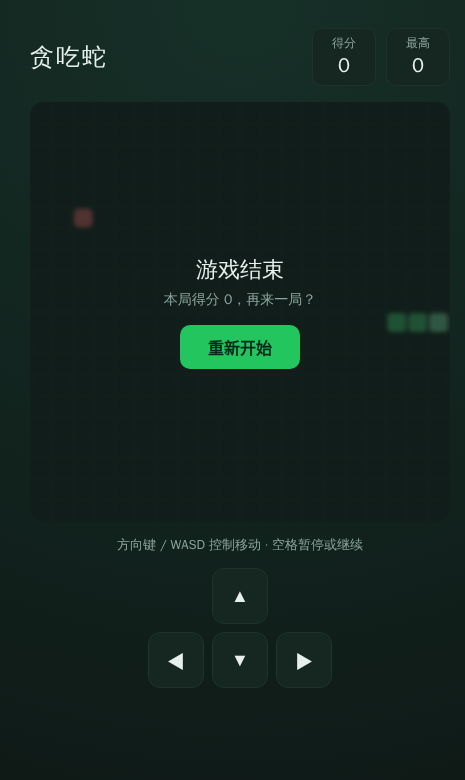
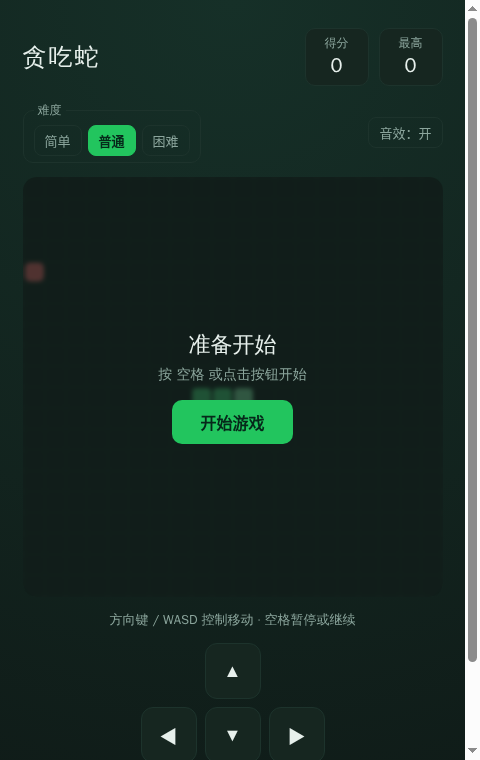
feat(v1.2.0): 难度选择+程序化音效，单元17/e2e9/结构25

diff --git a/js/snake.js b/js/snake.js
@@ -1,7 +1,8 @@
-// UI 层：负责 DOM、渲染、定时器与本地最高分；游戏逻辑见 engine.js
+// UI 层：负责 DOM、渲染、定时器与本地最高分；游戏逻辑见 engine.js，音效见 sound.js
 import {
-  createInitialState, setDirection, step, currentSpeed,
+  createInitialState, setDirection, step, currentSpeed, DIFFICULTIES,
 } from "./engine.js";
+import { createSoundEngine } from "./sound.js";
 
 const canvas = document.getElementById("board");
 const ctx = canvas.getContext("2d");
@@ -14,28 +15,44 @@ const overlay = document.getElementById("overlay");
 const overlayTitle = document.getElementById("overlay-title");
 const overlayText = document.getElementById("overlay-text");
 const startBtn = document.getElementById("start-btn");
+const muteBtn = document.getElementById("mute-btn");
 
-let state, timer, running, paused;
+let state, timer, running, paused, difficulty = "normal";
+let audioCtx, sound;
 let best = Number(localStorage.getItem("snake_best") || 0);
 bestEl.textContent = best;
 
+// 浏览器要求用户手势后才能创建/恢复 AudioContext
+function ensureSound() {
+  if (!sound) {
+    audioCtx = new (window.AudioContext || window.webkitAudioContext)();
+    sound = createSoundEngine(audioCtx);
+  }
+}
+
 function reset() {
-  state = createInitialState(CELLS);
+  state = createInitialState(CELLS, difficulty);
   scoreEl.textContent = 0;
   draw();
 }
 
 function tick() {
   const event = step(state);
-  if (event === "over") return gameOver();
+  if (event === "over") {
+    if (sound) sound.play("over");
+    return gameOver();
+  }
 
   scoreEl.textContent = state.score;
-  if (state.score > best) {
-    best = state.score;
-    bestEl.textContent = best;
-    localStorage.setItem("snake_best", String(best));
+  if (event === "ate") {
+    if (sound) sound.play("eat");
+    if (state.score > best) {
+      best = state.score;
+      bestEl.textContent = best;
+      localStorage.setItem("snake_best", String(best));
+    }
+    restartTimer(); // 速度可能变化
   }
-  if (event === "ate") restartTimer(); // 速度可能变化
   draw();
 }
 
@@ -72,10 +89,11 @@ function getCss(name) {
 
 function restartTimer() {
   clearInterval(timer);
-  timer = setInterval(tick, currentSpeed(state.score));
+  timer = setInterval(tick, currentSpeed(state.score, state.speedConfig));
 }
 
 function start() {
+  ensureSound();
   reset();
   running = true;
   paused = false;
@@ -121,6 +139,28 @@ document.addEventListener("keydown", (e) => {
 
 document.querySelectorAll(".d").forEach((btn) => {
   btn.addEventListener("click", () => setDirection(state, btn.dataset.dir));
+});
+
+// 难度选择
+document.querySelectorAll(".difficulty button").forEach((btn) => {
+  btn.addEventListener("click", () => {
+    difficulty = btn.dataset.difficulty;
+    document.querySelectorAll(".difficulty button").forEach((b) => {
+      const on = b === btn;
+      b.classList.toggle("active", on);
+      b.setAttribute("aria-pressed", String(on));
+    });
+    if (!running) reset();
+  });
+});
+
+// 静音开关
+muteBtn.addEventListener("click", () => {
+  ensureSound();
+  const muted = !sound.isMuted();
+  sound.setMuted(muted);
+  muteBtn.textContent = muted ? "音效：关" : "音效：开";
+  muteBtn.setAttribute("aria-pressed", String(muted));
 });
 
 startBtn.addEventListener("click", () => {

diff --git a/tests/sound.test.js b/tests/sound.test.js
@@ -1,0 +1,60 @@
+import { test } from "node:test";
+import assert from "node:assert";
+import { createSoundEngine, SOUNDS } from "../js/sound.js";
+
+// 最小可用的 Web Audio mock
+function mockCtx() {
+  const nodes = [];
+  const makeNode = () => ({
+    connect: () => makeNode(),
+    start: () => {}, stop: () => {},
+    frequency: { setValueAtTime: () => {}, exponentialRampToValueAtTime: () => {} },
+    gain: { setValueAtTime: () => {}, exponentialRampToValueAtTime: () => {} },
+  });
+  return {
+    state: "running",
+    currentTime: 0,
+    destination: {},
+    resume: async () => {},
+    createOscillator: () => { const n = makeNode(); nodes.push(n); return n; },
+    createGain: () => makeNode(),
+    _nodes: nodes,
+  };
+}
+
+test("非静音播放已知音效返回 true 并创建振荡器", () => {
+  const ctx = mockCtx();
+  const engine = createSoundEngine(ctx);
+  assert.equal(engine.play("eat"), true);
+  assert.equal(ctx._nodes.length, 1);
+});
+
+test("静音时播放返回 false", () => {
+  const ctx = mockCtx();
+  const engine = createSoundEngine(ctx);
+  engine.setMuted(true);
+  assert.equal(engine.isMuted(), true);
+  assert.equal(engine.play("eat"), false);
+  assert.equal(ctx._nodes.length, 0);
+});
+
+test("未知音效返回 false", () => {
+  const engine = createSoundEngine(mockCtx());
+  assert.equal(engine.play("nope"), false);
+});
+
+test("无 AudioContext 时安全返回 false", () => {
+  const engine = createSoundEngine(null);
+  assert.equal(engine.play("eat"), false);
+});
+
+test("suspended 状态会触发 resume", async () => {
+  const ctx = mockCtx();
+  let resumed = false;
+  ctx.state = "suspended";
+  ctx.resume = async () => { resumed = true; };
+  const engine = createSoundEngine(ctx);
+  engine.play("over");
+  assert.equal(resumed, true);
+  assert.ok(SOUNDS.over);
+});

diff --git a/tests/engine.test.js b/tests/engine.test.js
@@ -2,7 +2,7 @@ import { test } from "node:test";
 import assert from "node:assert";
 import {
   DIRS, createInitialState, placeFood, setDirection, step,
-  hitsWall, hitsSelf, currentSpeed,
+  hitsWall, hitsSelf, currentSpeed, DIFFICULTIES,
 } from "../js/engine.js";
 
 test("初始状态：3节蛇、向右、分数0、有食物、status ready", () => {
@@ -82,4 +82,24 @@ test("currentSpeed 随分数提升，且不低于下限", () => {
   assert.equal(currentSpeed(0), 140);
   assert.equal(currentSpeed(5), 128);
   assert.equal(currentSpeed(100), 60); // 触底
+});
+
+test("难度配置：createInitialState 携带对应速度参数", () => {
+  const easy = createInitialState(20, "easy");
+  const hard = createInitialState(20, "hard");
+  assert.equal(easy.speedConfig, DIFFICULTIES.easy);
+  assert.equal(hard.difficulty, "hard");
+  assert.ok(DIFFICULTIES.hard.base < DIFFICULTIES.easy.base);
+});
+
+test("不同难度初始速度不同", () => {
+  const easy = createInitialState(20, "easy");
+  const hard = createInitialState(20, "hard");
+  assert.ok(currentSpeed(0, easy.speedConfig) > currentSpeed(0, hard.speedConfig));
+});
+
+test("非法难度回退到 normal", () => {
+  const s = createInitialState(20, "nope");
+  assert.equal(s.difficulty, "normal");
+  assert.equal(s.speedConfig, DIFFICULTIES.normal);
 });

diff --git a/js/sound.js b/js/sound.js
@@ -1,0 +1,34 @@
+// 程序化音效：Web Audio 合成，无外部音频文件。AudioContext 可注入以便测试。
+export const SOUNDS = {
+  eat: { freq: 660, endFreq: 880, duration: 0.09, type: "square" },
+  over: { freq: 320, endFreq: 90, duration: 0.35, type: "sawtooth" },
+};
+
+export function createSoundEngine(ctx) {
+  let muted = false;
+
+  function play(name) {
+    const spec = SOUNDS[name];
+    if (!ctx || muted || !spec) return false;
+    if (ctx.state === "suspended") ctx.resume();
+
+    const t = ctx.currentTime;
+    const osc = ctx.createOscillator();
+    const gain = ctx.createGain();
+    osc.type = spec.type;
+    osc.frequency.setValueAtTime(spec.freq, t);
+    osc.frequency.exponentialRampToValueAtTime(spec.endFreq, t + spec.duration);
+    gain.gain.setValueAtTime(0.12, t);
+    gain.gain.exponentialRampToValueAtTime(0.001, t + spec.duration);
+    osc.connect(gain).connect(ctx.destination);
+    osc.start(t);
+    osc.stop(t + spec.duration);
+    return true;
+  }
+
+  return {
+    play,
+    setMuted(v) { muted = v; },
+    isMuted() { return muted; },
+  };
+}

diff --git a/css/style.css b/css/style.css
@@ -84,6 +84,40 @@ body {
 
 .hint { text-align: center; color: var(--muted); font-size: 13px; margin: 14px 0; }
 
+.controls {
+  display: flex;
+  align-items: center;
+  justify-content: space-between;
+  gap: 10px;
+  margin-bottom: 14px;
+}
+.difficulty {
+  border: 1px solid var(--grid);
+  border-radius: 10px;
+  padding: 6px 10px;
+  margin: 0;
+  display: flex;
+  align-items: center;
+  gap: 6px;
+}
+.difficulty legend { font-size: 12px; color: var(--muted); padding: 0 4px; }
+.difficulty button, #mute-btn {
+  background: transparent;
+  border: 1px solid var(--grid);
+  border-radius: 8px;
+  color: var(--muted);
+  padding: 5px 10px;
+  font-size: 13px;
+  cursor: pointer;
+}
+.difficulty button.active {
+  background: var(--accent);
+  border-color: var(--accent);
+  color: #06281a;
+  font-weight: 700;
+}
+#mute-btn { white-space: nowrap; }
+
 .dpad {
   display: grid;
   grid-template-columns: repeat(3, 56px);

diff --git a/js/engine.js b/js/engine.js
@@ -8,9 +8,20 @@ export const DIRS = {
 
 export const SPEED_CONFIG = { base: 140, min: 60, stepEvery: 5, stepMs: 12 };
 
-export function createInitialState(cells = 20) {
+// 难度配置：不同初始速度、下限与加速曲线
+export const DIFFICULTIES = {
+  easy: { label: "简单", base: 170, min: 90, stepEvery: 6, stepMs: 10 },
+  normal: { label: "普通", base: 140, min: 60, stepEvery: 5, stepMs: 12 },
+  hard: { label: "困难", base: 110, min: 45, stepEvery: 4, stepMs: 14 },
+};
+
+export function createInitialState(cells = 20, difficulty = "normal") {
+  const validDifficulty = DIFFICULTIES[difficulty] ? difficulty : "normal";
+  const cfg = DIFFICULTIES[validDifficulty];
   const state = {
     cells,
+    difficulty: validDifficulty,
+    speedConfig: cfg,
     snake: [{ x: 10, y: 10 }, { x: 9, y: 10 }, { x: 8, y: 10 }],
     dir: DIRS.right,
     nextDir: DIRS.right,

diff --git a/index.html b/index.html
@@ -16,6 +16,16 @@
       </div>
     </header>
 
+    <div class="controls">
+      <fieldset class="difficulty">
+        <legend>难度</legend>
+        <button type="button" data-difficulty="easy" aria-pressed="false">简单</button>
+        <button type="button" data-difficulty="normal" class="active" aria-pressed="true">普通</button>
+        <button type="button" data-difficulty="hard" aria-pressed="false">困难</button>
+      </fieldset>
+      <button id="mute-btn" type="button" aria-pressed="false">音效：开</button>
+    </div>
+
     <div class="board-wrap">
       <canvas id="board" width="400" height="400" aria-label="贪吃蛇游戏区域"></canvas>
       <div id="overlay" class="overlay">

diff --git a/README.md b/README.md
@@ -3,7 +3,7 @@
 [![CI](https://github.com/yyds8170-ctrl/craft-snake-rebuild/actions/workflows/ci.yml/badge.svg)](https://github.com/yyds8170-ctrl/craft-snake-rebuild/actions/workflows/ci.yml)
 [![license](https://img.shields.io/badge/license-PolyForm%20Noncommercial%201.0.0-blue.svg)](LICENSE)
 [![type](https://img.shields.io/badge/type-interactive%20demo-green.svg)](#特性)
-[![test](https://img.shields.io/badge/unit%209--e2e%206%20passing-brightgreen.svg)](#测试)
+[![test](https://img.shields.io/badge/unit%2017--e2e%209%20passing-brightgreen.svg)](#测试)
 
 一个从零独立实现、可直接在浏览器运行的贪吃蛇，用于验证 **Craft Anything 取证 + 豆包手工编码**闭环对带交互逻辑目标的处理能力。
 
@@ -13,22 +13,24 @@
 
 ## 特性
 
+- 三档难度（简单 / 普通 / 困难），不同速度曲线
 - 方向键 / WASD 控制，禁止 180° 直接反向
 - 空格暂停 / 继续，开始与结束遮罩
 - 吃食物计分、随分数提升速度
+- 程序化音效（Web Audio，零外部资源），可静音
 - 最高分通过 `localStorage` 持久化
 - 撞墙 / 撞自身判定，游戏结束可重开
 - 移动端虚拟方向键，响应式布局
 
 ## 测试
 
-- **单元测试（9 项）**：直接对纯逻辑引擎 `js/engine.js` 验证移动、吃食物、撞墙、撞自身、方向约束、速度。
+- **单元测试（17 项）**：对纯逻辑引擎 `js/engine.js` 验证移动、吃食物、碰撞、方向、速度、难度，对 `js/sound.js` 用 mock AudioContext 验证音效。
 
 ```bash
-node --test tests/engine.test.js
+node --test tests/engine.test.js tests/sound.test.js
 ```
 
-- **端到端测试（6 项）**：通过 CDP 驱动真实页面，覆盖开始、暂停、恢复、撞墙结束、反向约束。
+- **端到端测试（9 项）**：通过 CDP 驱动真实页面，覆盖开始、暂停、恢复、撞墙结束、反向约束、难度切换、静音开关。
 
 ```bash
 node e2e_test.mjs   # 需先启动带远程调试的浏览器（见 CI 配置）
@@ -50,6 +52,7 @@ rebuild-snake/
 ├── index.html
 ├── css/style.css
 ├── js/engine.js        # 纯逻辑引擎（可单元测试）
+├── js/sound.js         # 程序化音效（Web Audio）
 ├── js/snake.js         # UI/渲染/交互
 ├── tests/              # 单元测试 + 结构校验
 ├── e2e_test.mjs        # CDP 端到端测试

diff --git a/CHANGELOG.md b/CHANGELOG.md
@@ -3,6 +3,15 @@
 本项目遵循 [Keep a Changelog](https://keepachangelog.com/zh-CN/1.1.0/) 规范，
 版本号遵循 [语义化版本](https://semver.org/lang/zh-CN/)，许可证为 PolyForm Noncommercial 1.0.0。
 
+## [1.2.0] - 2026-11-09
+
+### 新增
+- 难度选择（简单 / 普通 / 困难）：不同初始速度、下限与加速曲线，引擎层归一化非法难度。
+- 程序化音效（`js/sound.js`，Web Audio 合成）：吃食物与游戏结束音效，零外部资源，可一键静音。
+- 音效单元测试（`tests/sound.test.js`，5 项，mock AudioContext）与 4 项难度单元测试。
+- 端到端测试扩展至 9 项（新增难度切换、静音开关）。
+- 结构校验扩展至 25 项。
+
 ## [1.1.0] - 2026-11-09
 
 ### 变更
